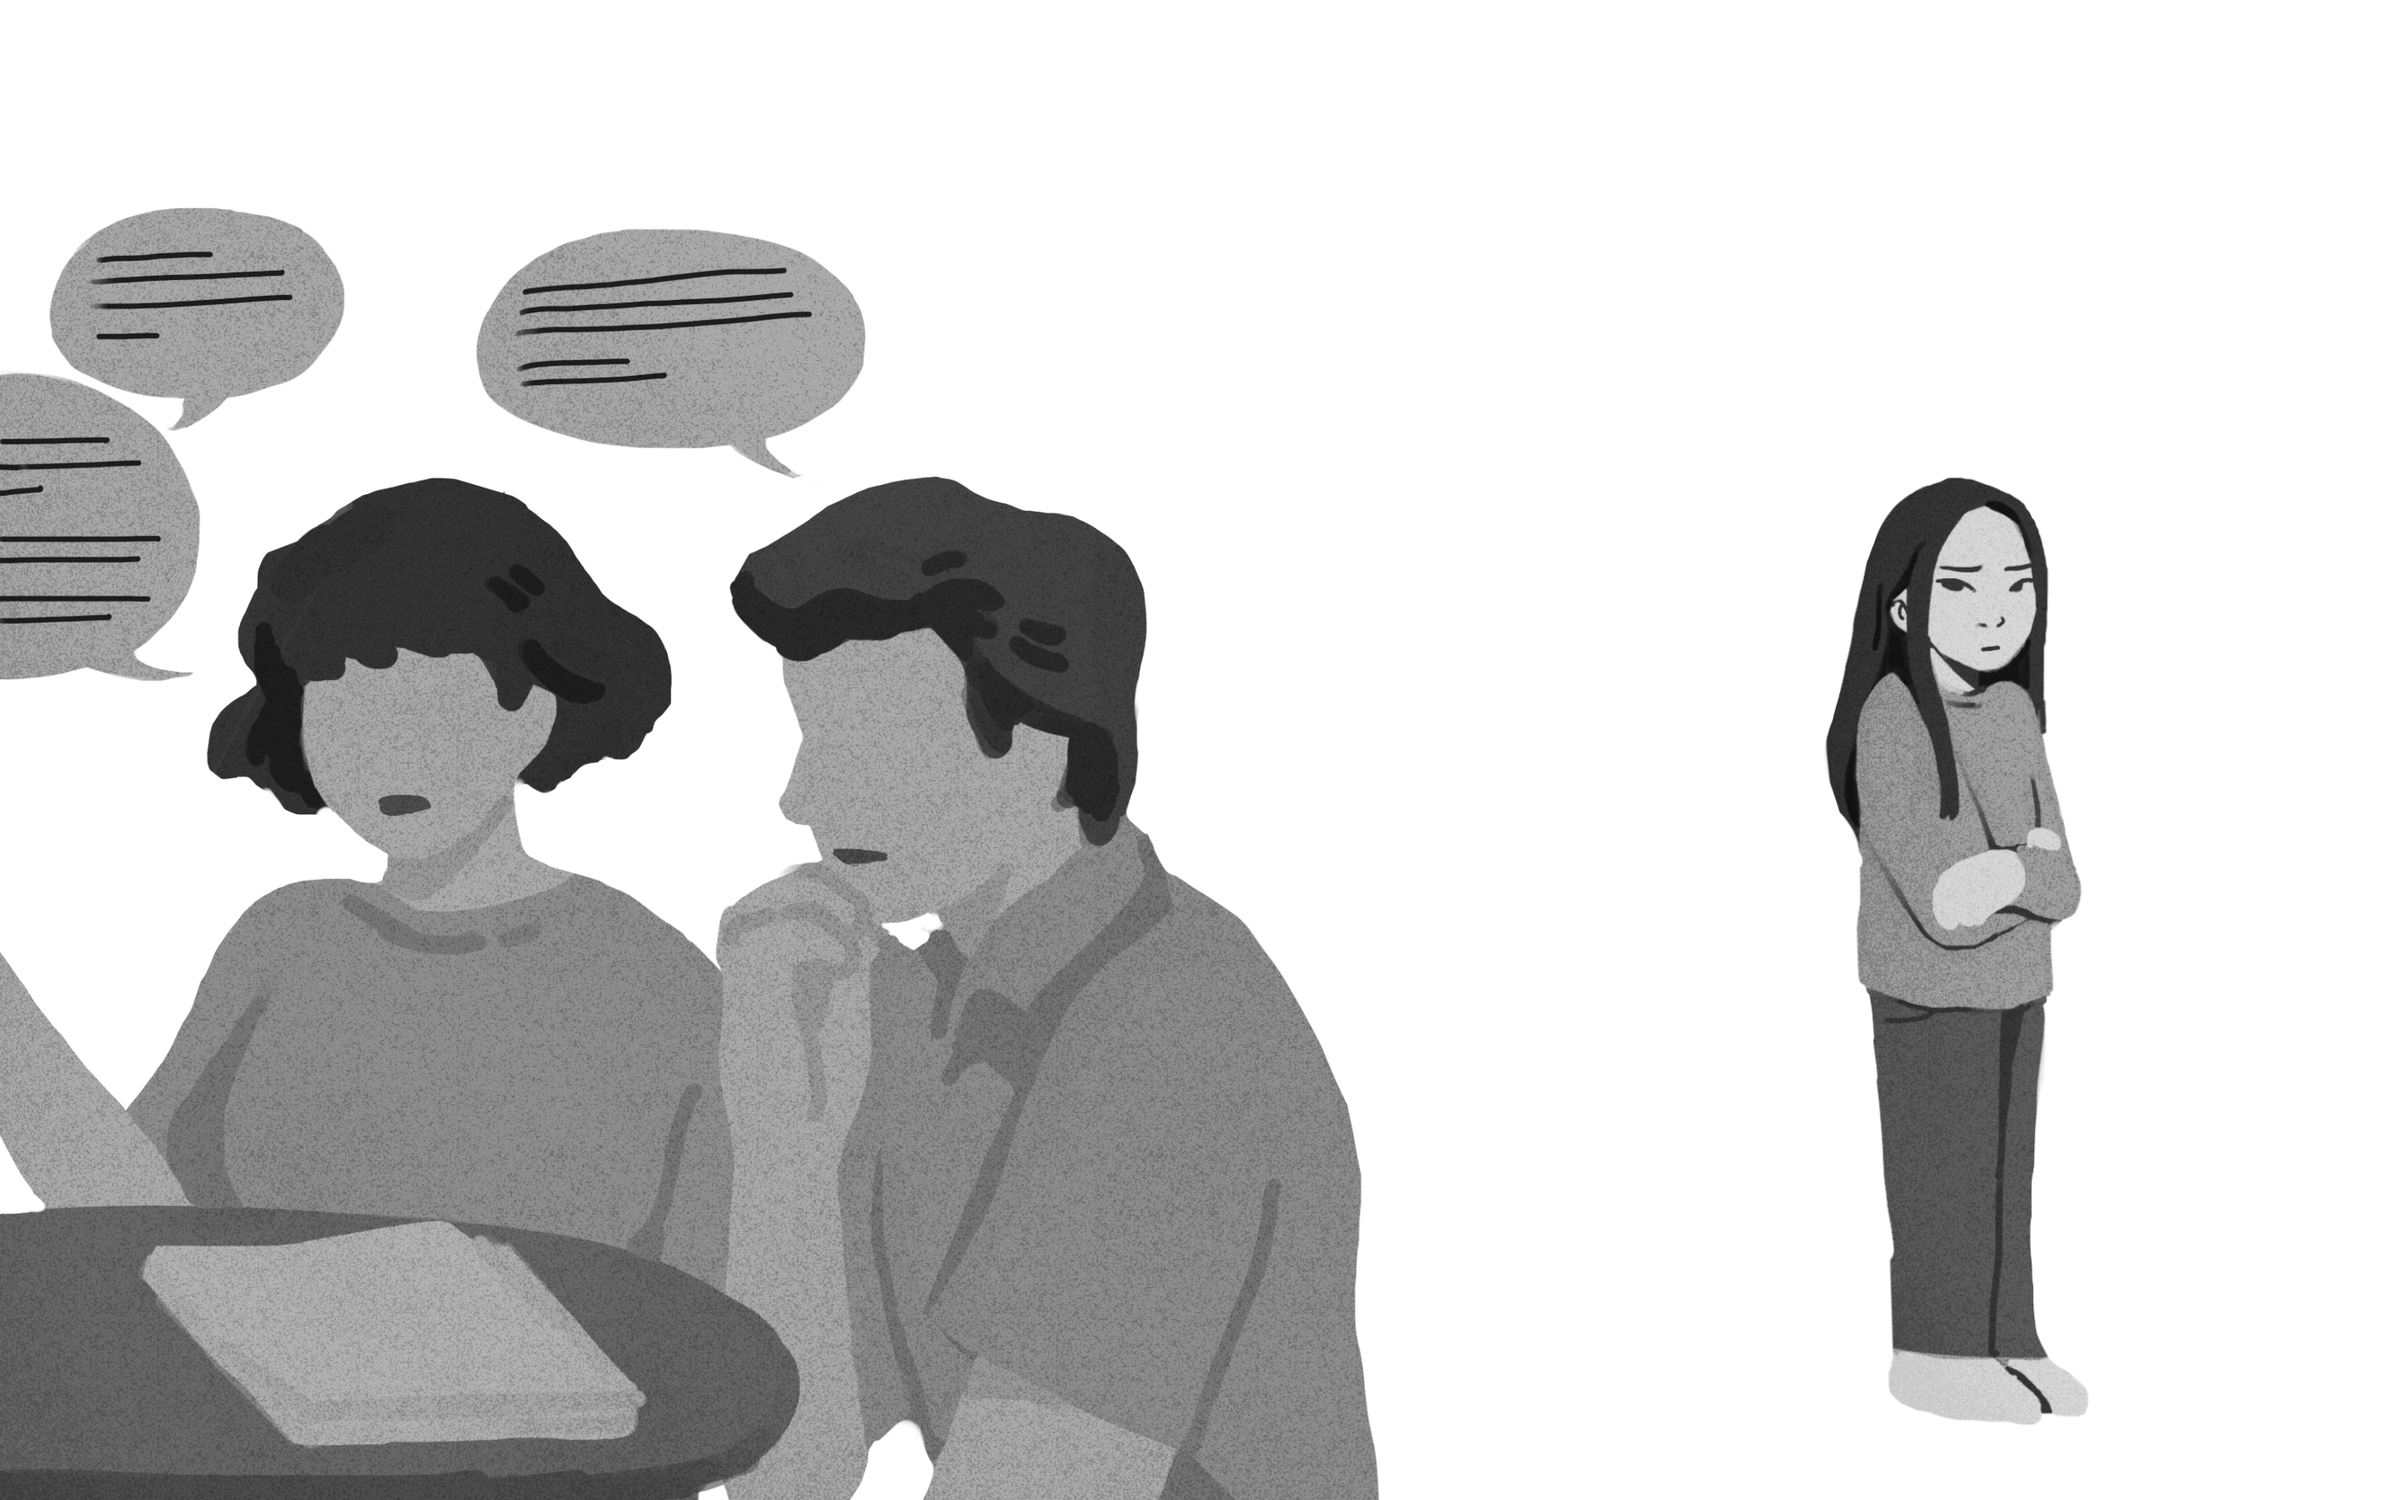
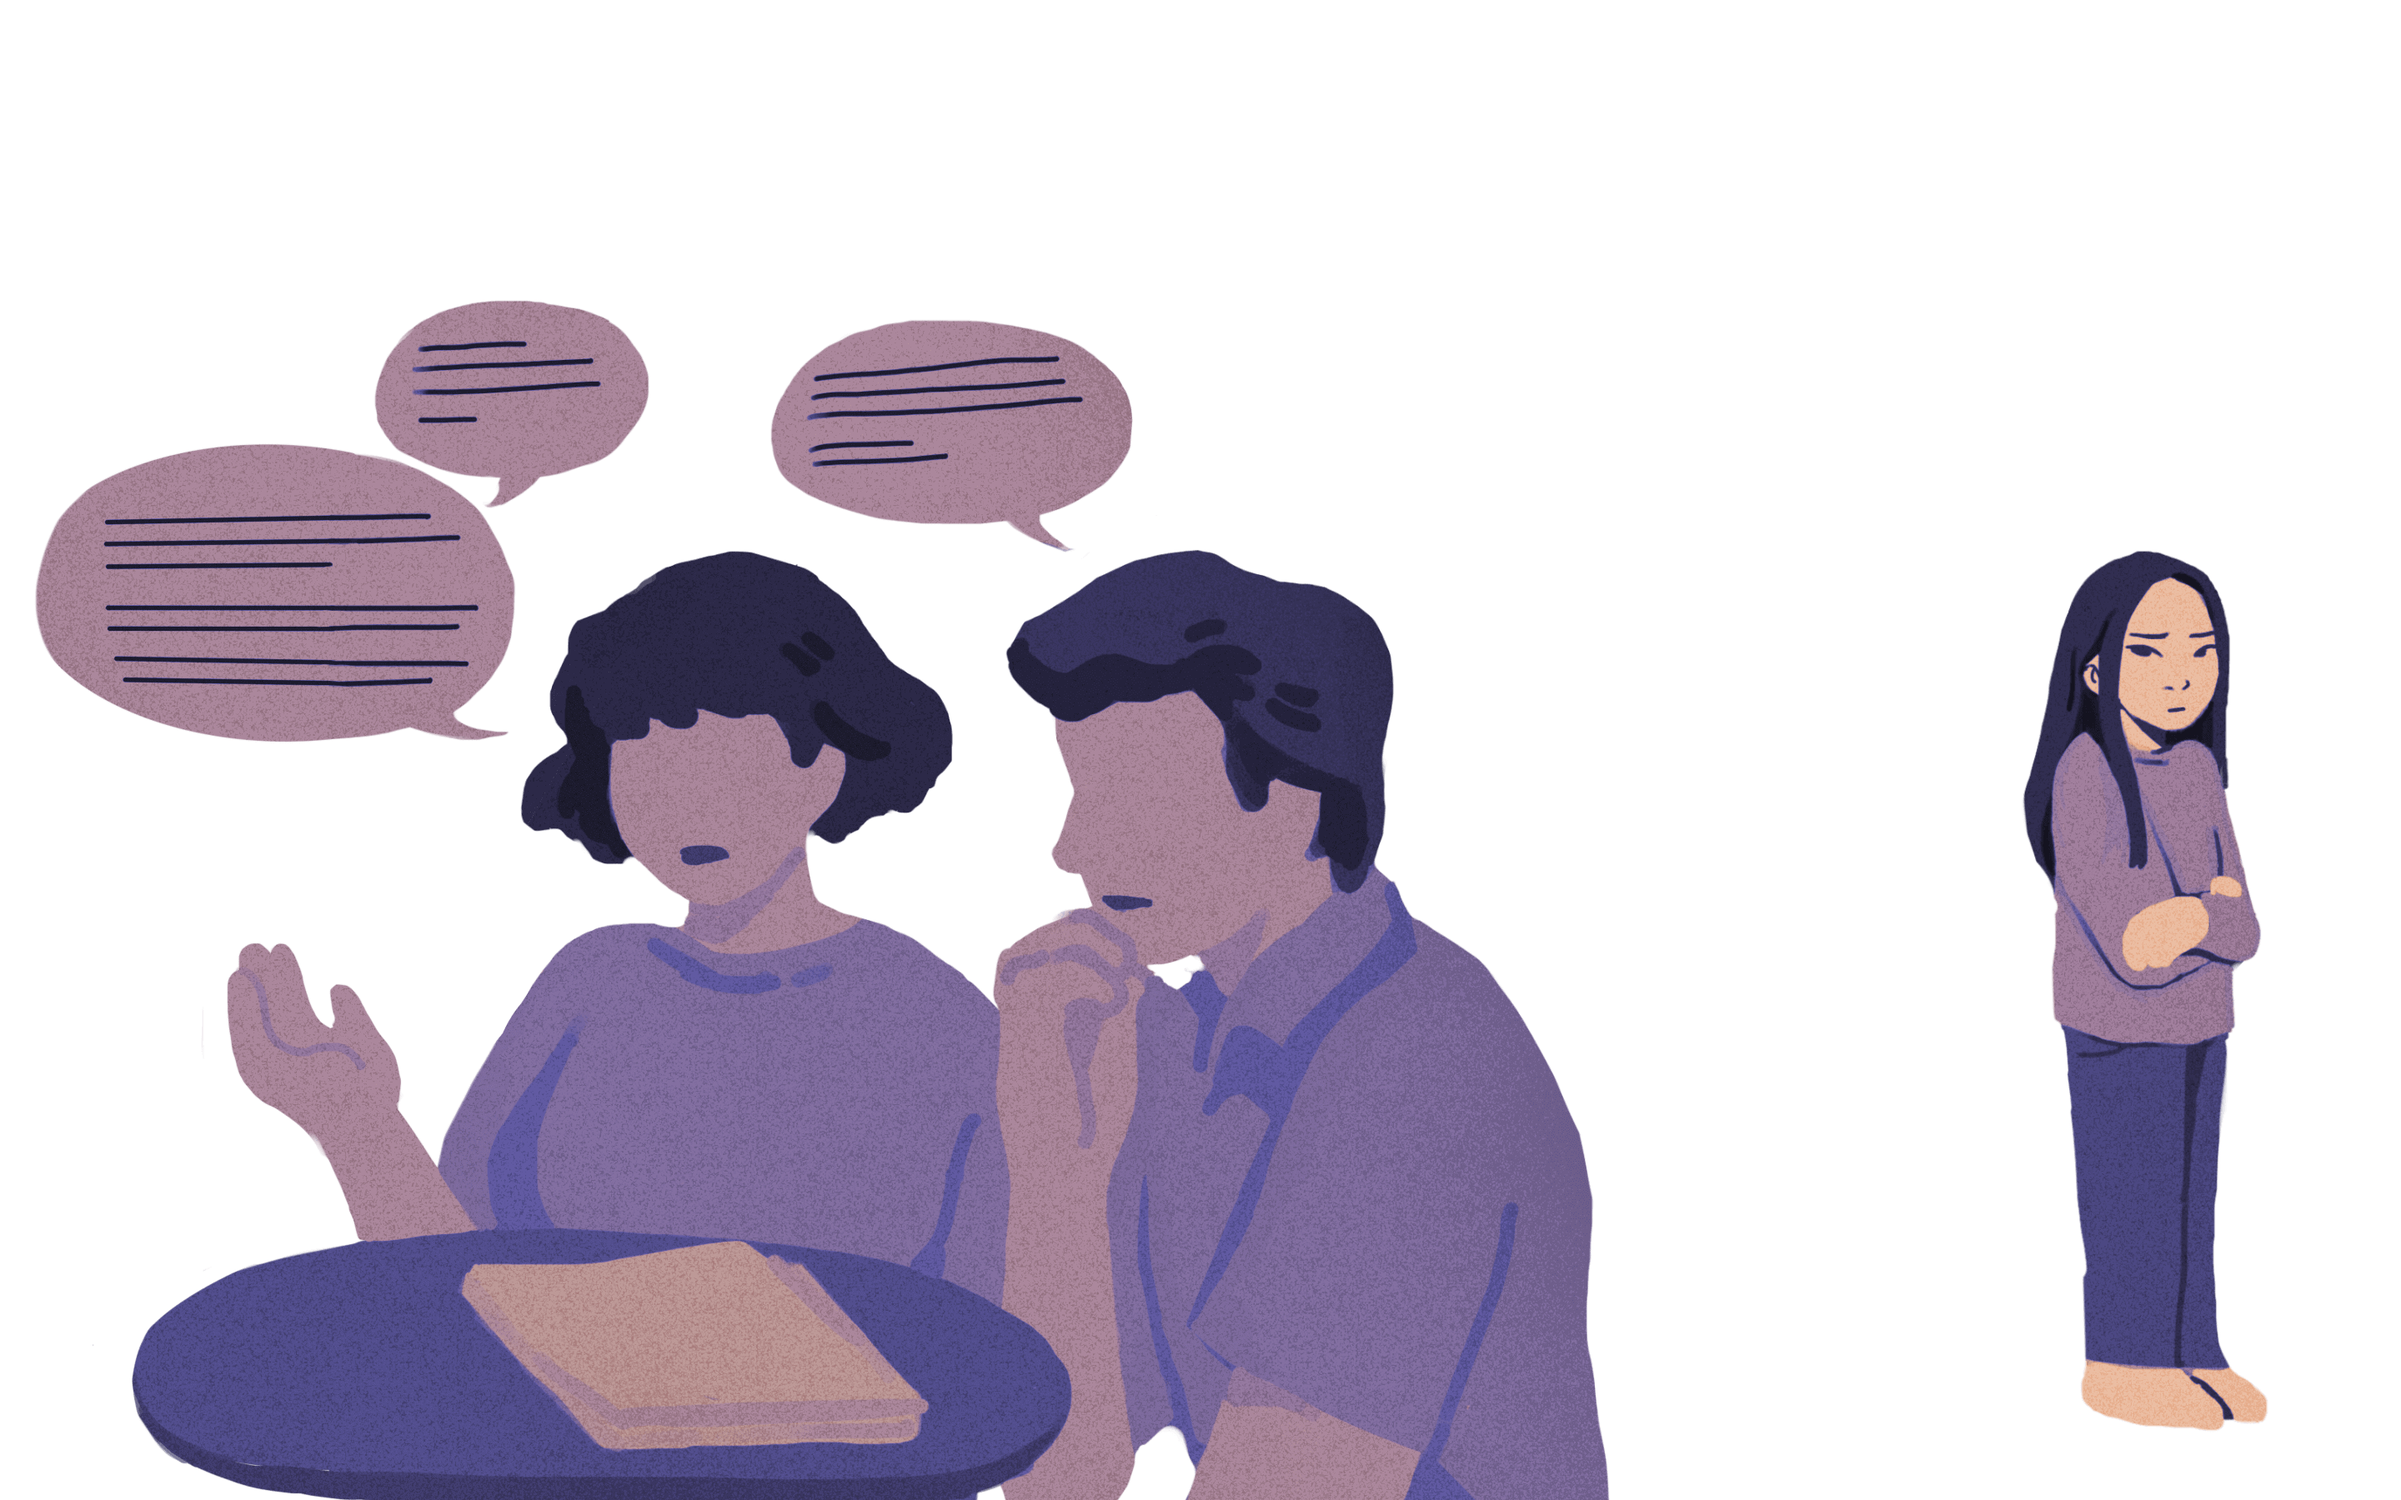
feat: Scene 3 (#15)
Add scene3 background 
Add foregrounds of color

diff --git a/src/components/sketches/Scene3.ts b/src/components/sketches/Scene3.ts
@@ -1,0 +1,128 @@
+import p5 from 'p5';
+import {
+  INIT_PARTICLES_COUNT,
+  INIT_SPEED,
+  ACCEL,
+  PARTICLES_MAX,
+  BOUNDARY_RADIUS,
+  BALL_RADIUS,
+  BOUNDARY_X,
+  BOUNDARY_Y,
+} from '../../utils/constants';
+
+export default function sketch(p: p5): void {
+  let canvas: p5.Renderer;
+  const particles: Particle[] = [];
+
+  const PINK: p5.Color = p.color(158, 34, 94);
+  const HOT_PINK: p5.Color = p.color(184, 47, 170);
+
+  p.setup = () => {
+    canvas = p.createCanvas(window.innerWidth, window.innerHeight);
+    canvas.id('p5-background');
+    // Setting mode to degrees for spawning particles in circle
+    p.angleMode(p.DEGREES);
+    p.background(0);
+    p.frameRate(30);
+
+    for (let i = 0; i < INIT_PARTICLES_COUNT; i++) {
+      particles.push(new Particle(p.random(p.width), p.random(p.height), p.random(0, 359), BALL_RADIUS(), PINK));
+    }
+  };
+  p.windowResized = () => {
+    p.resizeCanvas(window.innerWidth, window.innerHeight, true);
+    p.setup();
+  };
+
+  p.draw = () => {
+    // Reset background
+    p.background(0, 0, 0, 50);
+    p.fill(HOT_PINK);
+
+    p.ellipse(p.mouseX, p.mouseY, BALL_RADIUS()*2, BALL_RADIUS()*2);
+    p.fill(PINK);
+    p.ellipse(BOUNDARY_X(), BOUNDARY_Y(), BOUNDARY_RADIUS());
+
+    // If too many particles on screen
+    if (particles.length > PARTICLES_MAX) {
+      // Delete old particles (from beginning of array)
+      particles.splice(0, 10);
+    }
+
+    // Loop through the array and show each particle
+    for (let i = 0; i < particles.length; i++) {
+      particles[i].update();
+      particles[i].show();
+    }
+  };
+
+  /** Spawn ringParticles in ring with centre mouse x and y coords */
+  p.mouseClicked = () => {
+    particles.push(new Particle(p.mouseX, p.mouseY, p.random(0, 359), BALL_RADIUS(), HOT_PINK));
+  };
+  class Particle {
+    public pos: p5.Vector;
+    public color: p5.Color;
+    private _vel: p5.Vector;
+    private _acc: p5.Vector;
+    private _radius: number;
+
+    constructor(
+      x: number,
+      y: number,
+      theta: number,
+      radius: number,
+      color: p5.Color,
+    ) {
+      this._radius = radius; // Radius
+      this.pos = p.createVector(x, y); // Position
+      this._vel = p.createVector(INIT_SPEED, INIT_SPEED); // Velocity
+      this._acc = p.createVector(ACCEL, ACCEL); // Acceleration
+      this.color = color;
+
+      this._vel.limit(INIT_SPEED + 2);
+      this._vel.rotate(theta); // Rotate velocity to the given rotation (avoids complicated maths)
+      this._acc.rotate(theta); // Rotate to the given rotation (avoids complicated maths)
+    }
+
+    public update() {
+      this.pos.add(this._vel); // Update position with velocity
+      this.edges(); // Check if hitting edge for rebound
+    }
+
+    public show() {
+      p.noStroke();
+      // Set colour based on average of x and y position
+      p.fill(this.color);
+      // Draw point
+      p.ellipse(this.pos.x, this.pos.y, this._radius);
+    }
+
+    public edges() {
+      const x_dist = this.pos.x - BOUNDARY_X();
+      const y_dist = this.pos.y - BOUNDARY_Y();
+      // If hitting edge, invert appropriate velocity
+      if (this.pos.x < this._radius || this.pos.x > p.width - this._radius) {
+        this._acc.x *= -1;
+        this._vel.x *= -1;
+        this.pos.x = this.pos.x > p.width - this._radius? p.width - this._radius : this._radius;
+        this._vel.add(this._acc);
+      }
+      else if (this.pos.y < this._radius || this.pos.y > p.height - this._radius) {
+        this._acc.y *= -1;
+        this._vel.y *= -1;
+        this.pos.y = this.pos.y > p.height - this._radius? p.height - this._radius : this._radius;
+        this._vel.add(this._acc);
+      } else if
+      /** Bounce if touching Boundary */
+      (p.sqrt(x_dist * x_dist + y_dist * y_dist) < BOUNDARY_RADIUS() / 2) {
+        this._vel.reflect(p.createVector(x_dist, y_dist));
+      } else if
+      /** If not hitting a wall ensure speed does not go past INIT_SPEED + 2 */
+      (p.sqrt(this._vel.x * this._vel.x + this._vel.y * this._vel.y) >
+					INIT_SPEED) {
+        this._vel.limit(INIT_SPEED + 2);
+      }
+    }
+  }
+}

diff --git a/src/components/pages/Story1/index.tsx b/src/components/pages/Story1/index.tsx
@@ -3,11 +3,13 @@ import { useHistory } from 'react-router';
 
 import Scene1_fg from '../../../assets/scene1.png';
 import Scene2_fg from '../../../assets/scene2.png';
+import Scene3_fg from '../../../assets/scene3.png';
 import Scene4_fg from '../../../assets/scene4.png';
 import Scene5_fg from '../../../assets/scene5.png';
 import Layout, { SceneProps } from '../../shared/Layout';
 import Scene1_bg from '../../sketches/Scene1_neutral';
 import Scene2_bg from '../../sketches/Scene2';
+import Scene3_bg from '../../sketches/Scene3';
 import Scene4_bg from '../../sketches/Scene4';
 import Scene5_bg from '../../sketches/Scene5_happy';
 
@@ -19,7 +21,7 @@ function Story1(): JSX.Element {
       sketch: Scene1_bg,
       expo: [
         {
-          text: 'My parents didn’t know much about deafness. They were young. ',
+          text: 'My parents didn’t know much about deafness. They were young.',
           duration: 3000,
         },
         {
@@ -62,6 +64,29 @@ function Story1(): JSX.Element {
         },
       ],
       image: Scene2_fg,
+    },
+    {
+      sketch: Scene3_bg,
+      expo: [
+        {
+          text: 'Eventually I just stopped trying to engage, which came with its own set of problems.',
+          duration: 3000,
+        },
+        {
+          text: 'I developed a reputation as someone who never spoke.',
+          duration: 3000,
+        },
+        {
+          text: 'I got bullied quite a bit.',
+          duration: 3000,
+        },
+      ],
+      image: Scene3_fg,
+      style: {
+        width: '60%',
+        margin: '0px 0px 5px 10%',
+        border: '0px solid white',
+      },
     },
     {
       sketch: Scene4_bg,
@@ -121,7 +146,7 @@ function Story1(): JSX.Element {
           duration: 3000,
         },
         {
-          text: 'Maybe it didn’t mean much to him, because he had so many friends. But it meant a lot to me [joy].',
+          text: 'Maybe it didn’t mean much to him, because he had so many friends. But it meant a lot to me.',
           duration: 3000,
         },
         {

diff --git a/src/utils/constants.ts b/src/utils/constants.ts
@@ -47,6 +47,19 @@ export const SCL = 10;
 export const NUM_PARTICLES = Math.floor(window.innerWidth*.20);
 export const STROKE_WEIGHT = 7;
 
+
+// SCENE 3 CONSTANTS
+export const INIT_SPEED = 7;
+export const INIT_PARTICLES_COUNT = 100;
+export const ACCEL = 0.3;
+export const PARTICLES_MAX = 150;
+
+export const BALL_RADIUS = (): number => window.innerWidth / 100;
+
+export const BOUNDARY_RADIUS = (): number => window.innerWidth * 0.32;
+export const BOUNDARY_X = (): number => window.innerWidth * 0.4;
+export const BOUNDARY_Y = (): number => window.innerHeight * 0.7;
+
 // SCENE 5 CONSTANTS
 export const MAX_RING_PARTICLES = 2880 + 1440;
 export const RING_RADIUS = 13;

diff --git a/src/components/shared/Layout.tsx b/src/components/shared/Layout.tsx
@@ -15,6 +15,7 @@ export interface SceneProps {
   expo: Exposition[];
   image: string;
   imageAlt?: string;
+  style?: React.CSSProperties;
 }
 
 export interface LayoutProps {
@@ -91,7 +92,7 @@ function Layout(props: LayoutProps): JSX.Element {
   return (
     <div id={'layout'}>
       <P5Scene sketch={scene.sketch}/>
-      <img src={scene.image} alt={scene.imageAlt} className={'foreground-image'}/>
+      <img src={scene.image} alt={scene.imageAlt} className={'foreground-image'} style={scene.style}/>
       <div className={'text-wrapper'}>
         {scene.expo.map(({text}, i) =>
           <div key={`${sceneIdx}-${i}`}id={`expo-${i}`}>{text}</div>,
